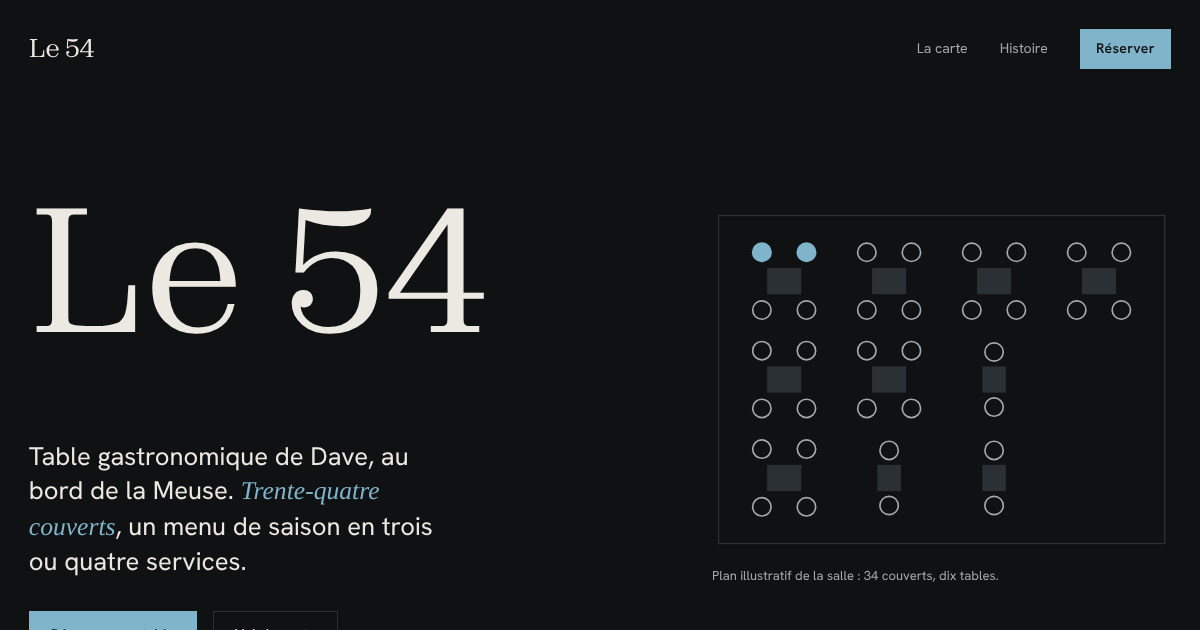
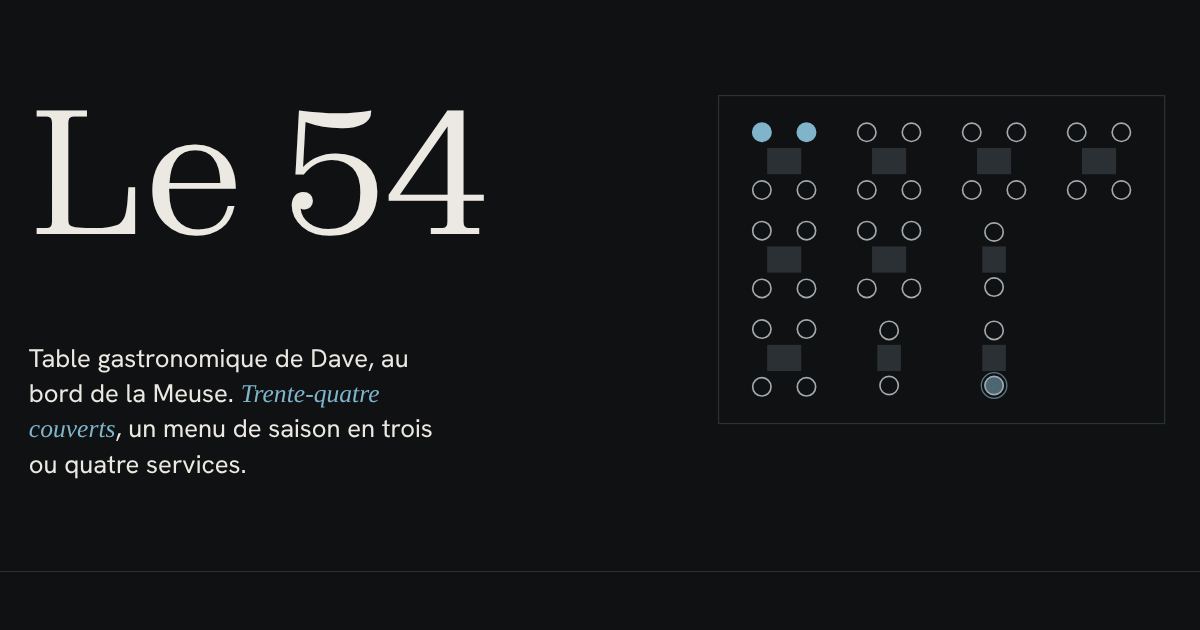
Termine la QA awwwards du Le 54 : réservation dédupliquée, OG recomposé, rapport
Claude-Session: https://claude.ai/code/session_01CZvTL84rxum7agMmPuNbmF

diff --git a/dist/suivi/index.html b/dist/suivi/index.html
@@ -50,20 +50,20 @@ footer{color:var(--muted);font-size:.8rem;margin-top:2rem}
 </style>
 </head><body><div class="wrap">
 <h1>Suivi du projet KYW Restaurants</h1>
-<p class="sub">Refonte de 20 restaurants namurois en 3 variantes. Mis à jour le 2026-11-10 03:24 UTC depuis l'état du dépôt. </p>
+<p class="sub">Refonte de 20 restaurants namurois en 3 variantes. Mis à jour le 2026-11-10 03:51 UTC depuis l'état du dépôt. </p>
 <ul class="liens"><li>Index des restaurants : <a href="https://kyw-test-restaurant.vercel.app/">https://kyw-test-restaurant.vercel.app/</a></li><li>Galerie des gabarits : <a href="https://kyw-test-restaurant.vercel.app/gabarits/">https://kyw-test-restaurant.vercel.app/gabarits/</a></li><li>Cette page sur Vercel : <a href="https://kyw-test-restaurant.vercel.app/suivi/">https://kyw-test-restaurant.vercel.app/suivi/</a></li><li>Consommation de jetons : <a href="https://claude.ai/artifact/39eBZZyjPAnwQfhAAx2Bxq">https://claude.ai/artifact/39eBZZyjPAnwQfhAAx2Bxq</a></li></ul>
 <div class="synthese">
 <div class="tuile"><b>92 %</b><span>avancement global (moyenne des 9 étapes)</span></div>
 <div class="tuile"><b>15 / 15</b><span>gabarits en ligne (15 revus et corrigés)</span></div>
-<div class="tuile"><b>38 / 60</b><span>variantes de sites publiées</span></div>
-<div class="tuile"><b>12 / 20</b><span>restaurants avec leurs 3 variantes</span></div>
+<div class="tuile"><b>39 / 60</b><span>variantes de sites publiées</span></div>
+<div class="tuile"><b>13 / 20</b><span>restaurants avec leurs 3 variantes</span></div>
 </div>
 <h2>Grandes étapes</h2>
-<div class="etapes"><div class="etape"><span class="n">01</span><div class="t">Sélection des restaurants<small>140 candidats vérifiés, 31 actifs, 20 retenus</small></div><div><div class="barre ok"><i style="--p:100%"></i></div><div class="pct">100 %</div></div></div><div class="etape"><span class="n">02</span><div class="t">Infrastructure et publication<small>dépôt, workspace Astro, pied de page KYW, projet Vercel, index</small></div><div><div class="barre ok"><i style="--p:100%"></i></div><div class="pct">100 %</div></div></div><div class="etape"><span class="n">03</span><div class="t">Skills et prompts des rôles<small>awwwards, jury, hallmark explorées ; 10 prompts, workflow, session fille</small></div><div><div class="barre ok"><i style="--p:100%"></i></div><div class="pct">100 %</div></div></div><div class="etape"><span class="n">04</span><div class="t">Recherche du portfolio<small>106 sites collectés, 106 évalués en navigateur, 15 directions artistiques</small></div><div><div class="barre ok"><i style="--p:100%"></i></div><div class="pct">100 %</div></div></div><div class="etape"><span class="n">05</span><div class="t">Socle Astro commun<small>moteur de motion, layout complet, données du restaurant 1</small></div><div><div class="barre ok"><i style="--p:100%"></i></div><div class="pct">100 %</div></div></div><div class="etape"><span class="n">06</span><div class="t">Gabarits du portfolio<small>15 en ligne, 15 revus et corrigés sur 15</small></div><div><div class="barre ok"><i style="--p:100%"></i></div><div class="pct">100 %</div></div></div><div class="etape"><span class="n">07</span><div class="t">Dossiers clients<small>13 sur 20</small></div><div><div class="barre"><i style="--p:65%"></i></div><div class="pct">65 %</div></div></div><div class="etape"><span class="n">08</span><div class="t">Sites des restaurants (3 variantes)<small>38 variantes publiées sur 60, 12 restaurants complets</small></div><div><div class="barre"><i style="--p:64%"></i></div><div class="pct">64 %</div></div></div><div class="etape"><span class="n">09</span><div class="t">Reporting de consommation<small>session dédiée, tableau de bord, méthode sobre appliquée</small></div><div><div class="barre ok"><i style="--p:100%"></i></div><div class="pct">100 %</div></div></div></div>
+<div class="etapes"><div class="etape"><span class="n">01</span><div class="t">Sélection des restaurants<small>140 candidats vérifiés, 31 actifs, 20 retenus</small></div><div><div class="barre ok"><i style="--p:100%"></i></div><div class="pct">100 %</div></div></div><div class="etape"><span class="n">02</span><div class="t">Infrastructure et publication<small>dépôt, workspace Astro, pied de page KYW, projet Vercel, index</small></div><div><div class="barre ok"><i style="--p:100%"></i></div><div class="pct">100 %</div></div></div><div class="etape"><span class="n">03</span><div class="t">Skills et prompts des rôles<small>awwwards, jury, hallmark explorées ; 10 prompts, workflow, session fille</small></div><div><div class="barre ok"><i style="--p:100%"></i></div><div class="pct">100 %</div></div></div><div class="etape"><span class="n">04</span><div class="t">Recherche du portfolio<small>106 sites collectés, 106 évalués en navigateur, 15 directions artistiques</small></div><div><div class="barre ok"><i style="--p:100%"></i></div><div class="pct">100 %</div></div></div><div class="etape"><span class="n">05</span><div class="t">Socle Astro commun<small>moteur de motion, layout complet, données du restaurant 1</small></div><div><div class="barre ok"><i style="--p:100%"></i></div><div class="pct">100 %</div></div></div><div class="etape"><span class="n">06</span><div class="t">Gabarits du portfolio<small>15 en ligne, 15 revus et corrigés sur 15</small></div><div><div class="barre ok"><i style="--p:100%"></i></div><div class="pct">100 %</div></div></div><div class="etape"><span class="n">07</span><div class="t">Dossiers clients<small>13 sur 20</small></div><div><div class="barre"><i style="--p:65%"></i></div><div class="pct">65 %</div></div></div><div class="etape"><span class="n">08</span><div class="t">Sites des restaurants (3 variantes)<small>39 variantes publiées sur 60, 13 restaurants complets</small></div><div><div class="barre"><i style="--p:65%"></i></div><div class="pct">65 %</div></div></div><div class="etape"><span class="n">09</span><div class="t">Reporting de consommation<small>session dédiée, tableau de bord, méthode sobre appliquée</small></div><div><div class="barre ok"><i style="--p:100%"></i></div><div class="pct">100 %</div></div></div></div>
 <h2>Gabarits du portfolio (15 en ligne sur 15)</h2>
 <p class="legende"><i style="background:var(--todo)"></i>à faire <i style="background:var(--wip)"></i>en construction ou construit <i style="background:var(--accent)"></i>en ligne, en revue <i style="background:var(--ok)"></i>revu et corrigé</p>
 <div class="grille"><div class="gab n5"><b>Braise</b><small>Le site est une soirée au feu : il part du noir incandescent du passe et refroidit chapitre après chapitre jusqu'à l'ivoire de la table, une seule variable de température pilotant couleur, lumière et texte.</small><span class="etat">corrigé</span><small class="url"><a href="https://kyw-test-restaurant.vercel.app/gabarits/braise/">https://kyw-test-restaurant.vercel.app/gabarits/braise/</a></small></div><div class="gab n5"><b>Quatre mains</b><small>Deux colonnes, deux voix : l'écran est coupé en deux couleurs qui défilent à des vitesses différentes et ne se rejoignent qu'aux moments où les deux chefs cuisinent ensemble.</small><span class="etat">corrigé</span><small class="url"><a href="https://kyw-test-restaurant.vercel.app/gabarits/quatre-mains/">https://kyw-test-restaurant.vercel.app/gabarits/quatre-mains/</a></small></div><div class="gab n5"><b>Affiche</b><small>Chaque écran est une affiche de rue : aplats francs, grotesque extra-large, horaires monumentaux et un plat qui s'empile couche par couche comme une liste numérotée.</small><span class="etat">corrigé</span><small class="url"><a href="https://kyw-test-restaurant.vercel.app/gabarits/affiche/">https://kyw-test-restaurant.vercel.app/gabarits/affiche/</a></small></div><div class="gab n5"><b>Cahier</b><small>Le site est le cahier de la maison : papier, stylo bille, sommaire pointillé, timbres et annotations manuscrites, où le menu du jour s'écrit sous vos yeux.</small><span class="etat">corrigé</span><small class="url"><a href="https://kyw-test-restaurant.vercel.app/gabarits/cahier/">https://kyw-test-restaurant.vercel.app/gabarits/cahier/</a></small></div><div class="gab n5"><b>Marée</b><small>Un site d'eau et d'air pour une table au bord de la Meuse : nom bord à bord sur l'horizon, ligne de houle qui ondule au scroll et plan du quai dessiné au trait.</small><span class="etat">corrigé</span><small class="url"><a href="https://kyw-test-restaurant.vercel.app/gabarits/maree/">https://kyw-test-restaurant.vercel.app/gabarits/maree/</a></small></div><div class="gab n5"><b>Journée</b><small>Du café du matin au dernier cocktail : le site est une frise de la journée dont la lumière et la palette tournent avec l'heure, et qui s'ouvre à l'heure réelle du visiteur.</small><span class="etat">corrigé</span><small class="url"><a href="https://kyw-test-restaurant.vercel.app/gabarits/journee/">https://kyw-test-restaurant.vercel.app/gabarits/journee/</a></small></div><div class="gab n5"><b>Comptoir</b><small>Blanc, silence et précision : l'assiette est le seul sujet, dressée sous vos yeux composant par composant, dans un site où rien ne bouge sans raison.</small><span class="etat">corrigé</span><small class="url"><a href="https://kyw-test-restaurant.vercel.app/gabarits/comptoir/">https://kyw-test-restaurant.vercel.app/gabarits/comptoir/</a></small></div><div class="gab n5"><b>Nocturne</b><small>Un bar après minuit : noir, mosaïque de photos bord à bord, lettres en tube ambré et un halo qui suit la main du visiteur comme une lampe de comptoir.</small><span class="etat">corrigé</span><small class="url"><a href="https://kyw-test-restaurant.vercel.app/gabarits/nocturne/">https://kyw-test-restaurant.vercel.app/gabarits/nocturne/</a></small></div><div class="gab n5"><b>Verger</b><small>Un site qui pousse : axe central, vignettes carrées d'ingrédients, roue des saisons qui tourne au scroll et producteurs nommés comme des étiquettes d'origine.</small><span class="etat">corrigé</span><small class="url"><a href="https://kyw-test-restaurant.vercel.app/gabarits/verger/">https://kyw-test-restaurant.vercel.app/gabarits/verger/</a></small></div><div class="gab n5"><b>Forno</b><small>Farine, pâte et four : un site brut de fournil où la photo du four grossit jusqu'à remplir l'écran, où les noms des pâtes défilent en capitales géantes et où un compte à rebours annonce la prochaine fournée.</small><span class="etat">corrigé</span><small class="url"><a href="https://kyw-test-restaurant.vercel.app/gabarits/forno/">https://kyw-test-restaurant.vercel.app/gabarits/forno/</a></small></div><div class="gab n5"><b>Encre</b><small>Ivoire, encre et un sceau vermillon : la carte se déroule comme un rouleau peint, le texte se lit à la verticale et chaque section s'ouvre par un signe.</small><span class="etat">corrigé</span><small class="url"><a href="https://kyw-test-restaurant.vercel.app/gabarits/encre/">https://kyw-test-restaurant.vercel.app/gabarits/encre/</a></small></div><div class="gab n5"><b>Velours</b><small>Vert sapin, cuivre et chiffres monumentaux : un site feutré pour une table étoilée, où chaque rideau se lève sur un nombre qui dit tout (5 tables, 7 services, 2 chefs).</small><span class="etat">corrigé</span><small class="url"><a href="https://kyw-test-restaurant.vercel.app/gabarits/velours/">https://kyw-test-restaurant.vercel.app/gabarits/velours/</a></small></div><div class="gab n5"><b>Collage</b><small>Un lieu à plusieurs vies (table, scène, brunch) collé comme un fanzine : aplats de couleur par activité, logo-étiquette qui absorbe le nom de la section, agenda en cahier ligné.</small><span class="etat">corrigé</span><small class="url"><a href="https://kyw-test-restaurant.vercel.app/gabarits/collage/">https://kyw-test-restaurant.vercel.app/gabarits/collage/</a></small></div><div class="gab n5"><b>Ardoise</b><small>La carte d'abord : un site d'ardoise anthracite où la liste des plats est la page d'accueil, avec prix tabulaires, aperçu au survol et suggestion du jour qui s'efface et se réécrit.</small><span class="etat">corrigé</span><small class="url"><a href="https://kyw-test-restaurant.vercel.app/gabarits/ardoise/">https://kyw-test-restaurant.vercel.app/gabarits/ardoise/</a></small></div><div class="gab n5"><b>Guinguette</b><small>Lin, corail et bleu canard : un one-page de fête familiale où l'on attrape les objets au trait, où les avis arrivent en cartes inclinées et où les photos s'étalent comme sur une table de terrasse.</small><span class="etat">corrigé</span><small class="url"><a href="https://kyw-test-restaurant.vercel.app/gabarits/guinguette/">https://kyw-test-restaurant.vercel.app/gabarits/guinguette/</a></small></div></div>
-<h2>Restaurants (12 complets sur 20)</h2>
+<h2>Restaurants (13 complets sur 20)</h2>
 <p class="legende">Pour chaque variante : à faire, en cours, construit, revu, corrigé, publié.</p>
 <div class="tableau"><table><thead><tr><th>#</th><th>Restaurant</th><th>Dossier</th><th>Portfolio</th><th>Awwwards</th><th>Inspi legacy</th></tr></thead><tbody>
 <tr><td class="num">1</td><td><b>Les Potes au Feu</b><br><small style="color:var(--muted)">bistronomique, produits locaux</small></td><td><span class="pastille d2">complet</span></td><td><span class="pastille n5">publié</span><br><small class="url"><a href="https://kyw-test-restaurant.vercel.app/les-potes-au-feu/portfolio/">https://kyw-test-restaurant.vercel.app/les-potes-au-feu/portfolio/</a></small></td><td><span class="pastille n5">publié</span><br><small class="url"><a href="https://kyw-test-restaurant.vercel.app/les-potes-au-feu/awwwards/">https://kyw-test-restaurant.vercel.app/les-potes-au-feu/awwwards/</a></small></td><td><span class="pastille n5">publié</span><br><small class="url"><a href="https://kyw-test-restaurant.vercel.app/les-potes-au-feu/legacy/">https://kyw-test-restaurant.vercel.app/les-potes-au-feu/legacy/</a></small></td></tr>
@@ -78,7 +78,7 @@ footer{color:var(--muted);font-size:.8rem;margin-top:2rem}
 <tr><td class="num">10</td><td><b>La Ferme Blanche d'Asie</b><br><small style="color:var(--muted)">asiatique / chinoise</small></td><td><span class="pastille d2">complet</span></td><td><span class="pastille n5">publié</span><br><small class="url"><a href="https://kyw-test-restaurant.vercel.app/ferme-blanche-d-asie/portfolio/">https://kyw-test-restaurant.vercel.app/ferme-blanche-d-asie/portfolio/</a></small></td><td><span class="pastille n5">publié</span><br><small class="url"><a href="https://kyw-test-restaurant.vercel.app/ferme-blanche-d-asie/awwwards/">https://kyw-test-restaurant.vercel.app/ferme-blanche-d-asie/awwwards/</a></small></td><td><span class="pastille n5">publié</span><br><small class="url"><a href="https://kyw-test-restaurant.vercel.app/ferme-blanche-d-asie/legacy/">https://kyw-test-restaurant.vercel.app/ferme-blanche-d-asie/legacy/</a></small></td></tr>
 <tr><td class="num">11</td><td><b>Le Félicien</b><br><small style="color:var(--muted)">brasserie classique</small></td><td><span class="pastille d2">complet</span></td><td><span class="pastille n5">publié</span><br><small class="url"><a href="https://kyw-test-restaurant.vercel.app/le-felicien/portfolio/">https://kyw-test-restaurant.vercel.app/le-felicien/portfolio/</a></small></td><td><span class="pastille n5">publié</span><br><small class="url"><a href="https://kyw-test-restaurant.vercel.app/le-felicien/awwwards/">https://kyw-test-restaurant.vercel.app/le-felicien/awwwards/</a></small></td><td><span class="pastille n5">publié</span><br><small class="url"><a href="https://kyw-test-restaurant.vercel.app/le-felicien/legacy/">https://kyw-test-restaurant.vercel.app/le-felicien/legacy/</a></small></td></tr>
 <tr><td class="num">12</td><td><b>Le Grill des Amis</b><br><small style="color:var(--muted)">grillades, viandes maturées</small></td><td><span class="pastille d2">complet</span></td><td><span class="pastille n5">publié</span><br><small class="url"><a href="https://kyw-test-restaurant.vercel.app/grill-des-amis/portfolio/">https://kyw-test-restaurant.vercel.app/grill-des-amis/portfolio/</a></small></td><td><span class="pastille n5">publié</span><br><small class="url"><a href="https://kyw-test-restaurant.vercel.app/grill-des-amis/awwwards/">https://kyw-test-restaurant.vercel.app/grill-des-amis/awwwards/</a></small></td><td><span class="pastille n5">publié</span><br><small class="url"><a href="https://kyw-test-restaurant.vercel.app/grill-des-amis/legacy/">https://kyw-test-restaurant.vercel.app/grill-des-amis/legacy/</a></small></td></tr>
-<tr><td class="num">13</td><td><b>Le 54</b><br><small style="color:var(--muted)">gastronomique française inventive</small></td><td><span class="pastille d2">complet</span></td><td><span class="pastille n5">publié</span><br><small class="url"><a href="https://kyw-test-restaurant.vercel.app/le-54/portfolio/">https://kyw-test-restaurant.vercel.app/le-54/portfolio/</a></small></td><td><span class="pastille n5">publié</span><br><small class="url"><a href="https://kyw-test-restaurant.vercel.app/le-54/awwwards/">https://kyw-test-restaurant.vercel.app/le-54/awwwards/</a></small></td><td><span class="pastille n1">en cours</span></td></tr>
+<tr><td class="num">13</td><td><b>Le 54</b><br><small style="color:var(--muted)">gastronomique française inventive</small></td><td><span class="pastille d2">complet</span></td><td><span class="pastille n5">publié</span><br><small class="url"><a href="https://kyw-test-restaurant.vercel.app/le-54/portfolio/">https://kyw-test-restaurant.vercel.app/le-54/portfolio/</a></small></td><td><span class="pastille n5">publié</span><br><small class="url"><a href="https://kyw-test-restaurant.vercel.app/le-54/awwwards/">https://kyw-test-restaurant.vercel.app/le-54/awwwards/</a></small></td><td><span class="pastille n5">publié</span><br><small class="url"><a href="https://kyw-test-restaurant.vercel.app/le-54/legacy/">https://kyw-test-restaurant.vercel.app/le-54/legacy/</a></small></td></tr>
 <tr><td class="num">14</td><td><b>Le Ponti 2</b><br><small style="color:var(--muted)">italienne, pizzeria</small></td><td><span class="pastille d0">à faire</span></td><td><span class="pastille n0">à faire</span></td><td><span class="pastille n0">à faire</span></td><td><span class="pastille n0">à faire</span></td></tr>
 <tr><td class="num">15</td><td><b>Le Servais</b><br><small style="color:var(--muted)">brasserie belge, bar à cocktails</small></td><td><span class="pastille d0">à faire</span></td><td><span class="pastille n0">à faire</span></td><td><span class="pastille n0">à faire</span></td><td><span class="pastille n0">à faire</span></td></tr>
 <tr><td class="num">16</td><td><b>Li Micougni</b><br><small style="color:var(--muted)">produits locaux de saison</small></td><td><span class="pastille d0">à faire</span></td><td><span class="pastille n0">à faire</span></td><td><span class="pastille n0">à faire</span></td><td><span class="pastille n0">à faire</span></td></tr>

diff --git a/sites/le-54-awwwards/RAPPORT.md b/sites/le-54-awwwards/RAPPORT.md
@@ -1,16 +1,32 @@
-# RAPPORT · Le 54 · awwwards (phase 1)
+# Le 54 : variante awwwards
+**Concept** : « Trente-quatre couverts », le plan de salle dressé place par place, qui suit le nombre de couverts de la réservation. **Stack** : Astro 5 + GSAP + Lenis, sans OGL (pas de GL : la table joue la retenue). Base `/le-54/awwwards/`.
+**Lancer** : `scripts/q.sh build pnpm build:site sites/le-54-awwwards` puis `node .claude/skills/awwwards/scripts/serve.mjs <racine QA> --port 4400`.
 
-## Données réelles utilisées
-Nom, adresse (rue de Longeau 54, 5100 Dave), deux téléphones, e-mail, réseaux, lien de contact du client, horaires (jeudi, vendredi, dimanche midi et soir, samedi soir ; fermé mardi et mercredi), dernières commandes 13 h et 20 h, menu du moment, formules 48 € et 65 €, suppléments wagyu (40 €) et zarzuela (25 € et 35 €), histoire de la famille Collignon, parking, terrasse, accès PMR, paiements, chiens, allergies.
+## Scores du critique jury
+Self-score, non indépendant : aucun critique neuf (outil Agent absent) ; une seule passe de QA sur preuves, pas de score chiffré. Le superviseur doit ajouter `Agent` aux outils pour la passe critique.
 
-## Données douteuses (non corrigées)
-- Lundi : le site dit ouvert (fermé mardi, mercredi, samedi midi), la-carte.be dit fermé. Affiché « à confirmer », absent du JSON-LD.
-- Menu 4 services : 65 € (site) contre 62 € (Gault&Millau). 65 € affiché.
-- Plages 12 h à 14 h et 18 h 30 à 21 h : Trouve Ton Resto, recoupées par G&M, à confirmer.
-- Score Gault&Millau (13, 13,5 ou 13,5/20) : non affiché. Aucun avis chiffré affiché.
-- Attribution des plats aux services (entrée, plat, dessert) inconnue : la carte n'en dit rien.
+## Mesures (QA-build de l'agent captures + audit final)
+- LCP mobile 1032 ms (h1 texte), CLS 0, loaderMs null (pas de loader), settledMs 2445 ms, FPS desktop 60 (rendu logiciel), 0 erreur console, 0 requête échouée, pas de débordement horizontal, 0 violation axe, `reduced` : 0 texte masqué, rien ne bouge, idleMotion true.
+- Audit final : 0 FAIL, 1 WARN (« no sitemap » : sitemap-index.xml présent dans le build et lié par `<link rel="sitemap">`, la racine de QA n'a pas de /sitemap.xml). Poids page la plus lourde ~548 Ko, JS 61 Ko gz, images 398 Ko, aucune police ttf/otf.
+- Réservation (shoot ciblé après correction) : LCP 988 ms, 0 axe, pas de débordement.
 
-## Éléments illustratifs (`placeholder`)
-- Plan de salle : 34 couverts réels, disposition inventée (7 tables de 4 et 3 de 2), légendé « plan illustratif ».
-- Photos d'assiettes : vues d'archives du client, légendées comme telles (elles ne correspondent pas forcément au menu du moment).
-- Aucun avis, prénom, distinction ni logo de presse inventé.
+## Corrigé en phase 3
+- Réservation : l'horaire était répété 5 fois (WARN « sentence repeated ») ; créneaux dits une fois, lignes « Midi et soir ».
+- OG recomposé (nom, accroche, plan dressé, sans interface) depuis la page servie.
+
+## Points non résolus
+- [Jury] pas de critique indépendant ni de score : à faire par le superviseur.
+- [Captures] la « 404 » du crawl est la page de repli de serve.mjs (`<pre>`, sans titre/lang/h1), pas `404.html` du site (lang fr, titre, h1 présents) : faux positif de l'outil.
+- [Clavier] `skipLinkFirst` false : faux négatif connu (regex anglais), le premier arrêt est bien « Aller au contenu ».
+- [Contraste] `contrastNeedsReview` (7 à 9) non relus un par un.
+- [Réservation] pas de dossier de captures complet (shoot ciblé seulement, hovers sautés).
+- Survol de la carte : 1 cible en couleur seule signalée par l'agent captures, non relue.
+
+## Placeholders et hypothèses (à remplacer par le client)
+- Plan de salle illustratif (disposition inventée, 34 couverts, dix tables). Horaires d'après le site du restaurant, certaines lignes « à confirmer ». Photos : crédit restaurant. Mention « Maquette KYW » rendue par le pied de page.
+
+## Décisions de théâtre
+Pas de loader, pas de GL, pas de curseur suiveur. Repos : place cherchée + halo. Accessoire retiré : non fait (pas de passe jury).
+
+## Leçons structurelles
+Voir agents/lecons/construction.md.

diff --git a/sites/le-54-awwwards/QA-build.md b/sites/le-54-awwwards/QA-build.md
@@ -1,0 +1,59 @@
+# QA build : le-54 awwwards (rôle captures)
+
+Source : `sites/le-54-awwwards/`, build dans `dist/le-54/awwwards/` (exit 0, 5 pages construites).
+Serveur local : `dist/` sur 127.0.0.1:4502 (arrêté après les captures).
+Journaux : `.logs/le-54-awwwards-build-*.log`.
+
+## Captures et planches
+
+| Page | Dossier de captures | Planche | Rapport |
+|---|---|---|---|
+| Accueil `/le-54/awwwards/` | `/home/user/KYW-test-restaurant/.shots-le-54-awwwards-build/home/` | `/home/user/KYW-test-restaurant/.shots-le-54-awwwards-build/home/planche.png` | `.../home/report.json` |
+| Carte `/le-54/awwwards/carte/` | `/home/user/KYW-test-restaurant/.shots-le-54-awwwards-build/le-54-item/` | `/home/user/KYW-test-restaurant/.shots-le-54-awwwards-build/le-54-item/planche.png` | `.../le-54-item/report.json` |
+| Page 404 (URL inexistante, sondée par le crawl) | `/home/user/KYW-test-restaurant/.shots-le-54-awwwards-build/404/` | `/home/user/KYW-test-restaurant/.shots-le-54-awwwards-build/404/planche.png` | `.../404/report.json` |
+
+Le crawl a relevé 4 pages (dont la 404 sondée). Le journal de capture indique 3 dossiers de pages, réservation comprise dans l'audit mais non capturée.
+
+Note outil : `scripts/planche.py` lit ses options `--colonnes` et `--largeur` de façon incorrecte (elles sont prises pour des fichiers source, avec « ignoré 4 » et « ignoré 480 » dans le journal). Les planches ont été produites avec les valeurs par défaut (3 colonnes, 640 px), soit 1920 px de large.
+
+## Chiffres des rapports
+
+| Mesure | Accueil | Carte | 404 |
+|---|---|---|---|
+| Erreurs console | 0 | 0 | 0 |
+| Requêtes en échec | 0 | 0 | 0 |
+| Violations axe | 0 | 0 | 2 (serious : `document-title`, `html-has-lang`) |
+| Contraste à vérifier (axe) | 9 | 8 | 0 |
+| LCP desktop | 136 ms | 84 ms | 40 ms (élément `pre`) |
+| LCP mobile (throttlé) | 1032 ms | 992 ms | 244 ms (élément `pre`) |
+| CLS desktop / mobile | 0 / 0 | 0 / 0 | 0 / 0 |
+| Débordement horizontal desktop / mobile | non / non | non / non | non / non |
+| Éléments hors cadre (offenders) desktop / mobile | 0 / 0 | 0 / 0 | 0 / 0 |
+| Cibles tactiles trop petites desktop / mobile | 0 / 0 | 0 / 0 | 0 / 0 |
+| Titre (`<title>`) | « Le 54 \| Table gastronomique à Dave, Namur » | « La carte \| Le 54 » | vide |
+| H1 | « Le 54 » | « La carte » | aucun |
+| WebGL activé / masqué | non / aucun | non / aucun | non / aucun |
+| FPS défilement desktop (pire trame) | 60 (50 ms) | 60 (17 ms) | 57 (100 ms) |
+| Clavier : arrêts de focus | 12 | 12 | 1 |
+| Clavier : focus invisible / sans focus visible | 0 / 0 | 0 / 0 | 0 / 0 |
+| Clavier : lien d'évitement en premier, bloqué | non / non | non / non | non / non |
+| Survol : cibles en couleur seule / recouvertes / sans changement | 0 / 0 / 0 | 1 / 0 / 0 | 0 / 0 / 0 |
+| Mouvement en réduit : texte masqué / animation active | 0 / non | 0 / non | 0 / non |
+
+Les lignes « ajustements » du rapport précisent que le FPS desktop tourne en rendu logiciel (plancher, non représentatif) et que le mobile est mesuré avec un ralentissement CPU x4 en 4G lente. Le chiffre fiable pour le mobile est donc le LCP et le FPS mobile indiqués dans le rapport.
+
+## Audit (`audit.mjs`)
+
+Sortie : `0 FAIL, 4 WARN`. Le poids de la page la plus lourde (`/le-54/awwwards/`) est d'environ 548 KB ; HTML 5, JS 61 (gz), CSS 6 (gz), polices 78, images 398.
+
+Lignes WARN :
+1. `/le-54/awwwards/reservation/` : phrase répétée 3 fois : « midi, 12 h à 14 h · soir, 18 h 30 à 21 h ».
+2. `site` : la page 404 n'a pas de `<h1>`.
+3. `site` : pas de `robots.txt`.
+4. `site` : pas de `sitemap`.
+
+Pas de ligne FAIL.
+
+## Captures non capturées
+
+La page `/le-54/awwwards/reservation/` apparaît dans l'audit (WARN n° 1) mais n'a pas de dossier de captures : le crawl n'a produit que 3 dossiers.

diff --git a/agents/lecons/construction.md b/agents/lecons/construction.md
@@ -135,3 +135,4 @@ Symptôme : audit WARN « phrase répétée » sur horaires. Cause : pied de pag
 - Atelier interdit un contrôle rempli de couleur : le primaire reste hairline et se remplit d'encre au survol seulement. FAIL 15 : ne pas transitionner `outline-color` d'un champ, seulement `background-color`. Un tableau d'horaires se restack sous 40 rem avec `td::before { content: attr(data-l) }`.
 - 2026-11-10 : `aria-label` sur un lien à texte visible différent = axe label-content-name-mismatch ; retirer l'aria-label.
 - 2026-11-10 · le-54 · variante legacy (phase 3) : un script Playwright maison échoue (« Executable doesn't exist … -1248 ») car le paquet attend une autre révision que celle préinstallée : `chromium.launch({executablePath:'/opt/pw-browsers/chromium_headless_shell-1243/chrome-headless-shell-linux64/chrome-headless-shell'})`, jamais `playwright install` ; la barre sombre flottante des captures du serveur de dev est la toolbar Astro, pas un défaut du site.
+- 2026-11-10 · le-54 · awwwards (phase 3) : `serve.mjs --help` démarre un serveur (ne jamais l'appeler pour l'aide) ; la « 404 » du crawl de shoot est le repli de serve.mjs, pas 404.html ; `og.mjs` capture l'interface : composer l'OG avec un script Playwright qui masque header, CTA, notes et sections suivantes.

diff --git a/sites/le-54-awwwards/ETAT.md b/sites/le-54-awwwards/ETAT.md
@@ -1,4 +1,4 @@
-# ETAT · Le 54 · awwwards · fin de la phase 2 (construction-2)
+# ETAT · Le 54 · awwwards · fin de la phase 3 (construction-3)
 
 ## Fait (phase 1)
 - DESIGN.md (concept « Trente-quatre couverts », système), 5 pages statiques, engine sans GL ni loader, favicon, OG provisoire, polices, RAPPORT.md.
@@ -22,3 +22,6 @@
 - État de départ du dressage posé en CSS (`.motion .plan__place { opacity: 0 }`) : si le pilote échoue, le plan reste vide ; sans `.motion` (réduit, sans JS) il est servi dressé.
 - Le pilote éteint les plans au départ (motion) puis rallume `n` à la fin du dressage ; sur la 404 `n = 0` (registre éteint aussi).
 - Repos sur toucher : pas d'entrée de vélocité (la place cherchée tourne seule).
+
+## Phase 3 (fait)
+- Audit 0 FAIL / 1 WARN justifié ; réservation dédupliquée ; OG recomposé ; build, `pnpm index` faits. RAPPORT.md écrit. Manque : critique jury indépendant (pas d'outil Agent), relecture des contrastNeedsReview.
